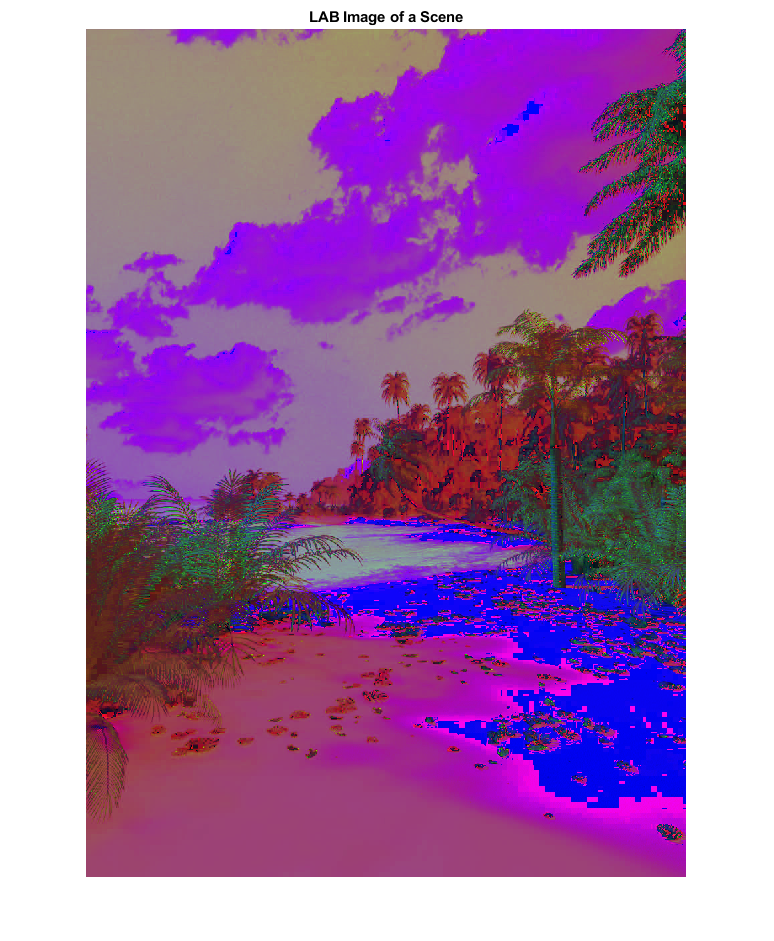
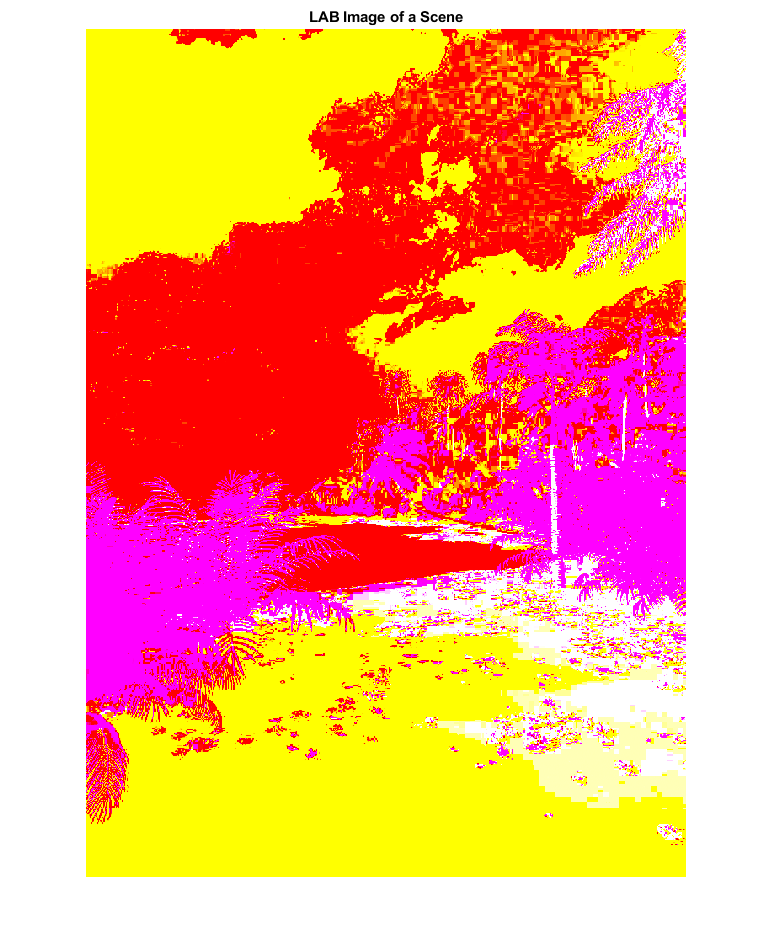
merging

diff --git a/HW04/Code/colorSegmentation.m b/HW04/Code/colorSegmentation.m
@@ -1,4 +1,4 @@
-function [segmentedImages] = colorSegmentation(image)
+function [segmentedImages] = colorSegmentation(scene)
 
 %{ 
 %%***********************************************************************
@@ -14,96 +14,76 @@ function [segmentedImages] = colorSegmentation(image)
 %              segmented in different color spaces
 %%**********************************************************************
 %} 
-rgbImage = image;
+rgbImage = scene;
 figure();
 imshow(rgbImage);
 title('RGB Image of a Scene');
 
 %================= convert rgb to hsi =====================================
-rgb = im2double(image);
-r = rgb(:, :, 1);
-g = rgb(:, :, 2);
-b = rgb(:, :, 3);
-
-% Implement the conversion equations.
-num = 0.5*((r - g) + (r - b));
-den = sqrt((r - g).^2 + (r - b).*(g - b));
-theta = acos(num./(den + eps));
-
-H = theta;
-H(b > g) = 2*pi - H(b > g);
-H = H/(2*pi);
-
-num = min(min(r, g), b);
-den = r + g + b;
-den(den == 0) = eps;
-S = 1 - 3.* num./den;
-
-H(S == 0) = 0;
-
-I = (r + g + b)/3;
-
-% Combine all three results into an hsi image.
-hsiImage = cat(3, H, S, I);
+hsiImage = rgb2hsv(scene);
 
 figure();
 imshow(hsiImage);
 title('HSI Image of a Scene');
+
+hsiImage = hsiImage(:,:,1:2); %discard intensity for segmentation
 %==========================================================================
 
 %================= convert rgb to lab =====================================
-labImage = rgb2lab(image);
+labImage = rgb2lab(scene);
 
 figure();
-imshow(hsiImage);
+imshow(labImage);
 title('LAB Image of a Scene');
 %==========================================================================
 
 
 Images = {rgbImage,hsiImage,labImage};
+ImageNames = {'RGB Image', 'HSI Image', 'LAB Image'};
+
 
 %define discrete colors
 colorNames = ['Black','Brown','Purple','Orange','Yellow','Green','Blue','Red'];
 colors = [0 0 0; 139,69,19;255,0,255;255,165,0;255,255,0;0,255,0;0,0,255;255,0,0];
 colors = colors./255;
 
-%plot intensity images
-for image = 1:size(iImages,2)
-figure();
-colormap(gray);
-imagesc(iImages{image});
-title('8-bit Intensity Image');
+
+for image = 1:size(Images,2)
+   %define sample regions for each class
+   sky1 = Images{image}(86:200,32:208,:);
+   sky2 = Images{image}(636:667,307:346,:);
+   cloud = Images{image}(32:288,624:721,:);
+   tree = Images{image}(667:786,706:709,:);
+   sand1 = Images{image}(1130:1220,250:442,:);
+   sand2 = Images{image}(1180:1200,775:825,:);
+   water = Images{image}(769:804,421:474,:);
+   rocks = Images{image}(1200:1210,873:886,:);
+   
+   %create labels
+   protMats = {sky1,sky2,cloud,tree,sand1,sand2,rocks};
+   labels = 1:1:size(protMats,2);
+   
+   prototypes = [];
+   
+   %take average of class regions
+   for mat = 1:size(protMats,2)
+       matrix = protMats{mat};
+       matVector = reshape(matrix,[],3);
+       avgVect = mean(matVector);
+       prototypes = horzcat(prototypes,avgVect');
+   end
+   
+   
+   
+   
 end
 
-%bin intensity values
-numBins = 8;
-maxVal = (2^numBins)-1;
-numLevelsperBin = (maxVal+1)/numBins;
-
-%Make a look-up table of intensity values
-levels = 0:(2^8)-1;
-levels = reshape(levels,[numLevelsperBin, numBins]);
-levels = levels';
-
-% find which of the 8 rows the current value falls into 
-for image = 1:size(iImages,2)
-    thisImage = iImages{image};
-    pcImage = zeros(size(thisImage,1),size(thisImage,2));
-    for row = 1:size(thisImage,1)
-        for col = 1:size(thisImage,2)
-            [levelRow, ~] = find(levels == thisImage(row,col));
-            pcImage(row,col) = levelRow;
-        end
-    end
-    pcImages{image} = pcImage;
-end
 
 %plot each binned image
 for image = 1:size(pcImages,2)
     figure();
     colormap(colors);
-    imagesc(pcImages{image});
-    title('Pseudo-Color Image');
+    imagesc(pcImage{image});
     cmap = colormap(colors(numBins)); 
     cbh = colorbar; 
     cbh.Ticks = linspace(0, 1, numBins);  
